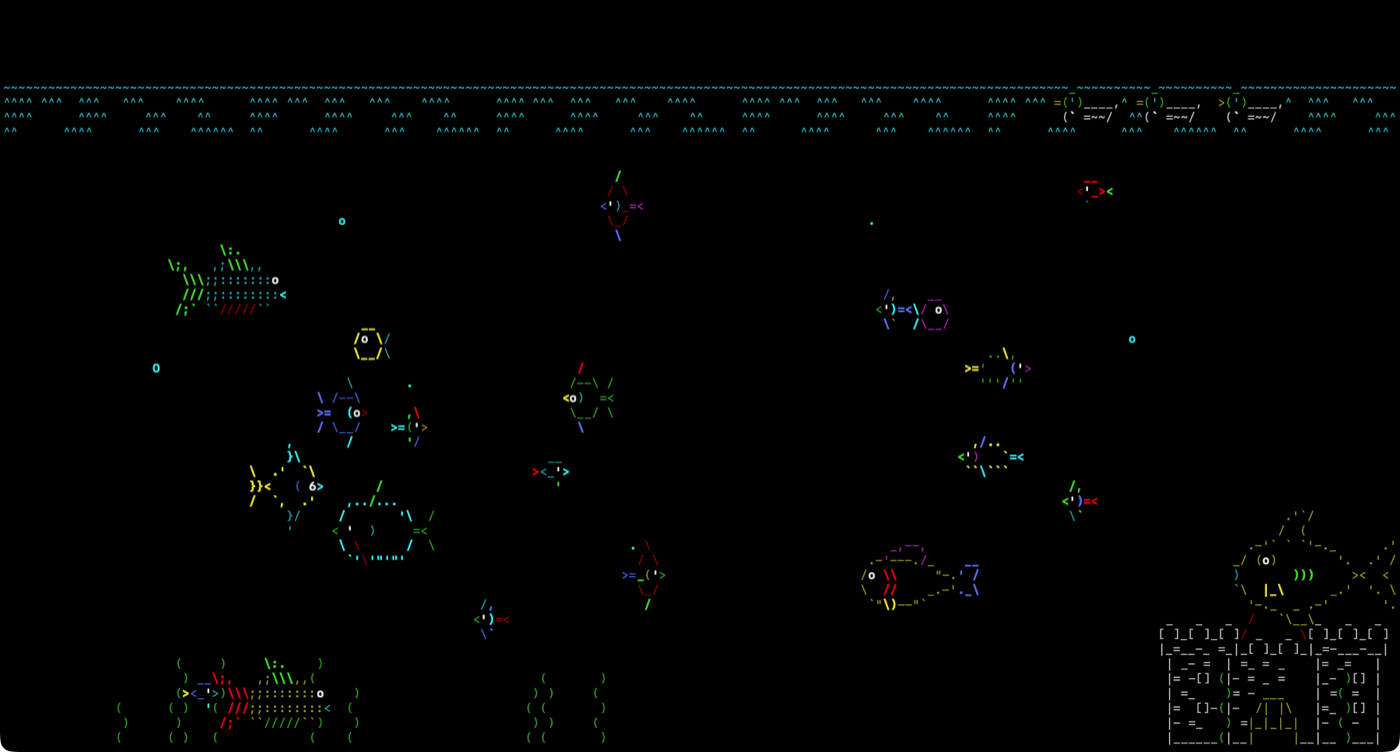
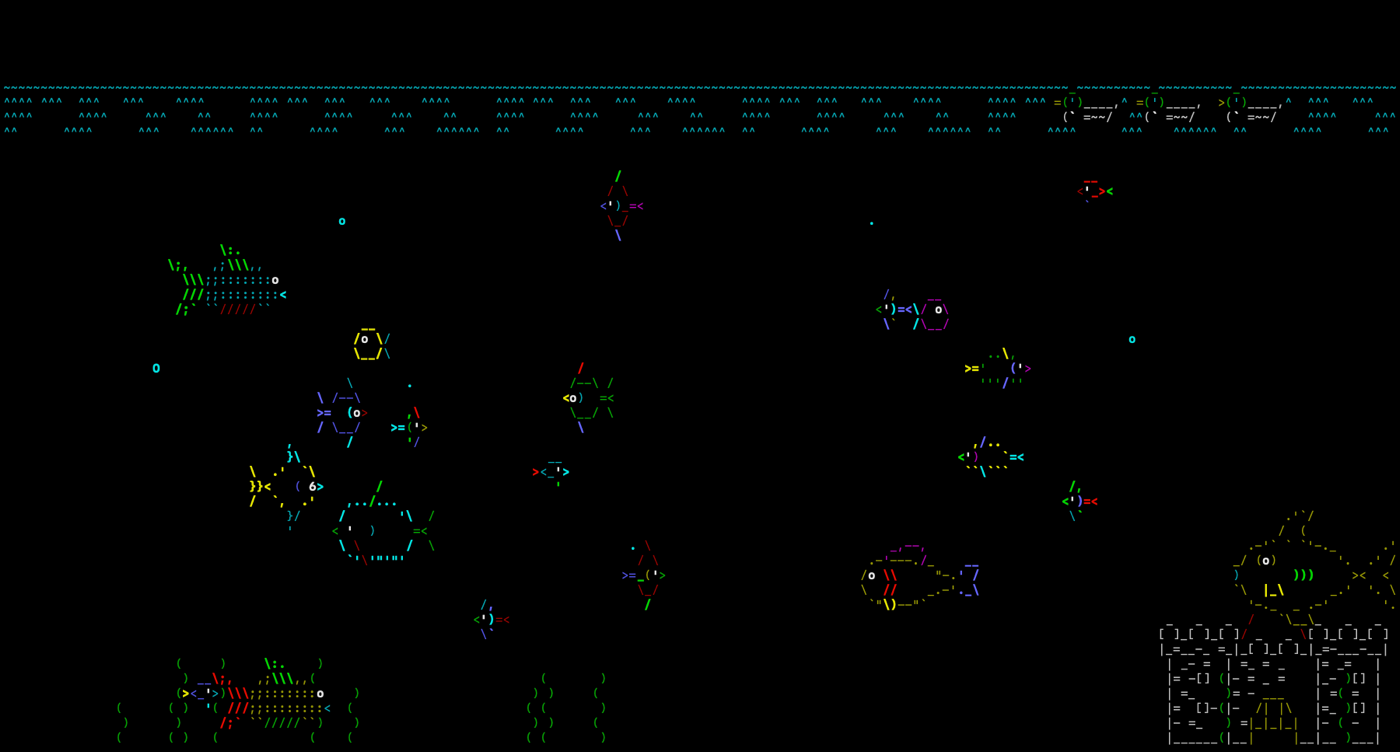
Harden the release script for its first real run
Retries stapling and fetches Apple's log when notarization fails.

Changed region(s): [[0.9829, 0.9787, 1.0, 1.0], [0.645, 0.3976, 0.6757, 0.4282], [0.1229, 0.367, 0.1536, 0.3976]]

diff --git a/README.md b/README.md
@@ -7,7 +7,7 @@ each of your displays.
 It is a native macOS port of [asciiquarium](https://github.com/nothub/asciiquarium), the terminal animation
 by Kirk Baucom, rewritten in Swift with no third-party runtime code.
 
-![The Asciiquarium tank: fish, a castle, seaweed and a sea monster under a line of waves](docs/screenshot.png)
+![The Asciiquarium tank: fish of many shapes and colors, ducks riding the waves, a large fish beside the castle, and seaweed on the sea floor](docs/screenshot.png)
 
 ## Requirements
 
@@ -90,8 +90,8 @@ This port follows these pinned versions. Where the Perl program and the Python p
 
 ## License
 
-GPL-3.0. See [LICENSE](LICENSE). asciiquarium and Term::Animation are free software under the GNU GPL as
-well.
+GPL-3.0. See [LICENSE](LICENSE). The original asciiquarium is released under the GNU GPL, and
+Term::Animation under the same terms as Perl itself.
 
 ## Credits
 
